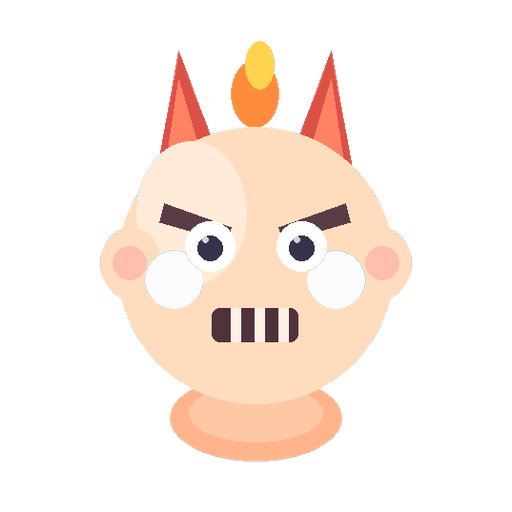
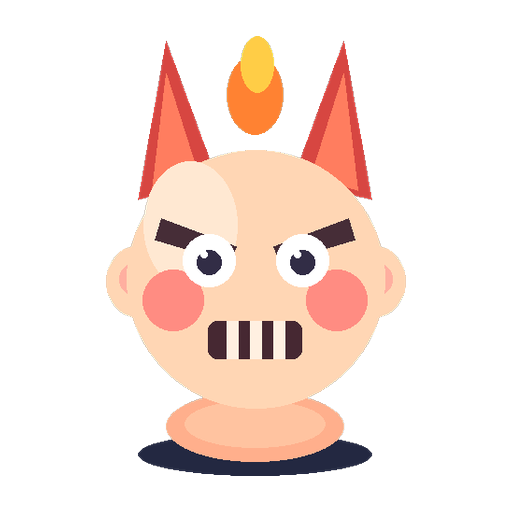
update

diff --git a/assets/licenses/KENNEY_CC0.md b/assets/licenses/KENNEY_CC0.md
@@ -90,12 +90,12 @@ Shadow Guardian and released under Creative Commons Zero (CC0 1.0):
 
 ## Surprise / Emotions (project original)
 
-Emotion faces in `assets/game/surprise/` were created for Shadow Guardian and
-released under Creative Commons Zero (CC0 1.0):
+Consistent chibi emotion mascots in `assets/game/surprise/` (CC0), each with a
+unique accessory silhouette:
 
-- `happy.png` — Mutlu
-- `sad.png` — Üzgün
-- `angry.png` — Kızgın
-- `surprised.png` — Şaşkın
-- `sleepy.png` — Uykulu
-- `scared.png` — Korkmuş
+- `happy.png` — Mutlu (parti şapkası)
+- `sad.png` — Üzgün (yağmur bulutu)
+- `angry.png` — Kızgın (boynuz + alev)
+- `surprised.png` — Şaşkın (yay saç)
+- `sleepy.png` — Uykulu (uyku şapkası)
+- `scared.png` — Korkmuş (hayalet çarşaf)
